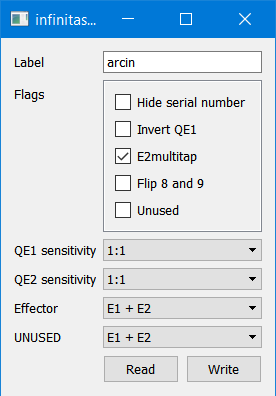
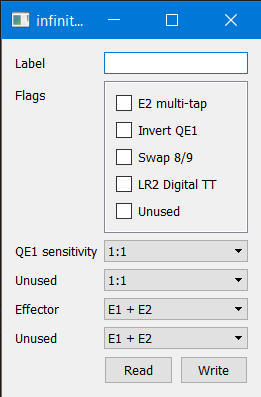
Enable debounce and digital turntable (#6)

diff --git a/arcin/main.cpp b/arcin/main.cpp
@@ -15,7 +15,7 @@
 // Pin out on arcin board
 //
 
-#define ARCIN_BUTTON_KEY_1           ((uint16_t)(1 << 0))
+#define ARCIN_BUTTON_KEY_1        ((uint16_t)(1 << 0))
 #define ARCIN_BUTTON_KEY_2        ((uint16_t)(1 << 1))
 #define ARCIN_BUTTON_KEY_3        ((uint16_t)(1 << 2))
 #define ARCIN_BUTTON_KEY_4        ((uint16_t)(1 << 3))
@@ -29,14 +29,14 @@
 #define ARCIN_BUTTON_EXTRA_9      ((uint16_t)(1 << 8))
 
 #define ARCIN_BUTTON_START        ((uint16_t)(1 << 9))  // button 10
-#define ARCIN_BUTTON_SEL             ((uint16_t)(1 << 10)) // button 11
+#define ARCIN_BUTTON_SEL          ((uint16_t)(1 << 10)) // button 11
 
 //
 // Remapped values for Windows
 //
 
-#define INFINITAS_DIGITAL_TT_CW   ((uint16_t)(1 << 12))  // button 13
-#define INFINITAS_DIGITAL_TT_CCW  ((uint16_t)(1 << 13))  // button 14
+#define JOY_BUTTON_13              ((uint16_t)(1 << 12))  // button 13
+#define JOY_BUTTON_14             ((uint16_t)(1 << 13))  // button 14
 
 #define INFINITAS_BUTTON_E1       ((uint16_t)(1 << 8))  // E1
 #define INFINITAS_BUTTON_E2       ((uint16_t)(1 << 9))  // E2
@@ -346,10 +346,6 @@ uint16_t remap_buttons(uint16_t buttons) {
     return remapped;
 }
 
-HID_arcin usb_hid(usb, report_desc_p);
-
-USB_strings usb_strings(usb, config.label);
-
 #define DEBOUNCE_TIME_MS 5
 
 uint16_t debounce_state = 0;
@@ -365,99 +361,90 @@ int debounce_index = 0;
  * We use update to sync to the USB polls; this helps avoid additional latency when
  * debounce samples just after the USB poll.
  */
-void debounce(uint16_t &buttons) {
-	if (Time::time() == debounce_sample_time) {
-		buttons = debounce_state;
-        return;
-	}
+uint16_t debounce(uint16_t buttons) {
+    if (Time::time() == debounce_sample_time) {
+        return debounce_state;
+    }
 
     debounce_sample_time = Time::time();
+    debounce_history[debounce_index] = buttons;
+    debounce_index = (debounce_index + 1) % DEBOUNCE_TIME_MS;
 
-	debounce_history[debounce_index] = buttons;
-	debounce_index = (debounce_index + 1) % DEBOUNCE_TIME_MS;
+    uint16_t has_ones = 0, has_zeroes = 0;
+    for (int i = 0; i < DEBOUNCE_TIME_MS; i++) {
+        has_ones |= debounce_history[i];
+        has_zeroes |= ~debounce_history[i];
+    }
 
-    uint16_t dbg = 0;
-
-	uint16_t has_ones = 0, has_zeroes = 0;
-	for (int i = 0; i < DEBOUNCE_TIME_MS; i++) {
-		has_ones |= debounce_history[i];
-		has_zeroes |= ~debounce_history[i];
-
-        dbg |= (debounce_history[i] & 1) ? (1 << i) : 0;
-	}
-
-	uint16_t stable = has_ones ^ has_zeroes;
-    dbg |= (stable & 1) ? (1 << 5) : 0;
-
-	debounce_state = (debounce_state & ~stable) | (has_ones & stable);
-    dbg |= (debounce_state & 1) ? (1 << 6) : 0;
-
-    dbg |= (buttons & 1) ? (1 << 10) : 0;
-
-	buttons = debounce_state;
-//    button_leds.set(dbg);
+    uint16_t stable = has_ones ^ has_zeroes;
+    debounce_state = (debounce_state & ~stable) | (has_ones & stable);
+    return debounce_state;
 }
 
 class analog_button {
-	public:
-		// config
+public:
+    // config
 
-		// Number of ticks we need to advance before recognizing an input
-		uint32_t deadzone;
-		// How long to sustain the input before clearing it (if opposite direction is input, we'll release immediately)
-		uint32_t sustain_ms;
-		// Always provide a zero-input for one poll before reversing?
-		bool clear;
+    // Number of ticks we need to advance before recognizing an input
+    uint32_t deadzone;
+    // How long to sustain the input before clearing it (if opposite direction is input, we'll release immediately)
+    uint32_t sustain_ms;
+    // Always provide a zero-input for one poll before reversing?
+    bool clear;
 
-		const volatile uint32_t &counter;
+    const volatile uint32_t &counter;
 
-		// State: Center of deadzone
-		uint32_t center;
-		// times to: reset to zero, reset center to counter
-		uint32_t t_timeout;
+    // State: Center of deadzone
+    uint32_t center;
+    // times to: reset to zero, reset center to counter
+    uint32_t t_timeout;
 
-		int8_t state; // -1, 0, 1
-		int8_t last_delta;
-	public:
-		analog_button(volatile uint32_t &counter, uint32_t deadzone, uint32_t sustain_ms, bool clear)
-			: deadzone(deadzone), sustain_ms(sustain_ms), clear(clear), counter(counter)
-		{
-			center = counter;
-			t_timeout = 0;
-			state = 0;
-		}
+    int8_t state; // -1, 0, 1
+    int8_t last_delta;
+public:
+    analog_button(volatile uint32_t &counter, uint32_t deadzone, uint32_t sustain_ms, bool clear)
+        : deadzone(deadzone), sustain_ms(sustain_ms), clear(clear), counter(counter)
+    {
+        center = counter;
+        t_timeout = 0;
+        state = 0;
+    }
 
-		int8_t poll() {
-			uint8_t observed = counter;
-			int8_t delta = observed - center;
-			last_delta = delta;
+    int8_t poll() {
+        uint8_t observed = counter;
+        int8_t delta = observed - center;
+        last_delta = delta;
 
-			uint8_t direction = 0;
-			if (delta >= (int32_t)deadzone) {
-				direction = 1;
-			} else if (delta <= -(int32_t)deadzone) {
-				direction = -1;
-			}
+        uint8_t direction = 0;
+        if (delta >= (int32_t)deadzone) {
+            direction = 1;
+        } else if (delta <= -(int32_t)deadzone) {
+            direction = -1;
+        }
 
-			if (direction != 0) {
-				center = observed;
-				t_timeout = Time::time() + sustain_ms;
-			} else if (t_timeout != 0 && Time::time() >= t_timeout) {
-				state = 0;
-				center = observed;
-				t_timeout = 0;
-			}
+        if (direction != 0) {
+            center = observed;
+            t_timeout = Time::time() + sustain_ms;
+        } else if (t_timeout != 0 && Time::time() >= t_timeout) {
+            state = 0;
+            center = observed;
+            t_timeout = 0;
+        }
 
-			if (direction == -state && clear) {
-				state = direction;
-				return 0;
-			} else if (direction != 0) {
-				state = direction;
-			}
+        if (direction == -state && clear) {
+            state = direction;
+            return 0;
+        } else if (direction != 0) {
+            state = direction;
+        }
 
-			return state;
-		}
+        return state;
+    }
 };
+
+HID_arcin usb_hid(usb, report_desc_p);
+
+USB_strings usb_strings(usb, config.label);
 
 int main() {
     rcc_init();
@@ -533,6 +520,8 @@ int main() {
     qe2a.set_mode(Pin::AF);
     qe2b.set_mode(Pin::AF);    
 
+    analog_button tt1(TIM2.CNT, 4, 100, true);
+
     while(1) {
         usb.process();
 
@@ -561,6 +550,33 @@ int main() {
             uint32_t qe1_count = TIM2.CNT;
             uint16_t remapped = remap_buttons(buttons);
 
+            // Digital turntable for LR2.
+            if (config.flags & ARCIN_CONFIG_FLAG_DIGITAL_TT_ENABLE) {
+                switch (tt1.poll()) {
+                case -1:
+                    remapped |= JOY_BUTTON_13;
+                    break;
+                case 1:
+                    remapped |= JOY_BUTTON_14;
+                    break;
+                default:
+                    break;
+                }
+            }
+
+            // Apply debounce...
+            uint16_t debounce_mask = 0;
+            // If multi-tap on E2 is enabled, debounce E2 beforehand
+            if (config.flags & ARCIN_CONFIG_FLAG_SEL_MULTI_TAP) {
+                debounce_mask |= INFINITAS_BUTTON_E2;
+            }
+
+            if (debounce_mask != 0) {
+                remapped = (remapped & ~debounce_mask) |
+                           (debounce(remapped) & debounce_mask);
+            }
+
+            // Multi-tap processing of E2. Must be done after debounce.
             if (config.flags & ARCIN_CONFIG_FLAG_SEL_MULTI_TAP) {
                 if (multitap_active_frames == 0) {
                     // Make a note of its current state
@@ -593,30 +609,7 @@ int main() {
                 }
             }
 
-            // digital turntable
-            if (config.flags & ARCIN_CONFIG_FLAG_DIGITAL_TT_ENABLE) {
-                int8_t rx = qe1_count - last_x;
-                if(rx > 1) {
-                    state_x = DIGITAL_TT_HOLD_DURATION_MS;
-                    last_x = qe1_count;
-                } else if(rx < -1) {
-                    state_x = -DIGITAL_TT_HOLD_DURATION_MS;
-                    last_x = qe1_count;
-                } else if(state_x > 0) {
-                    state_x--;
-                    last_x = qe1_count;
-                } else if(state_x < 0) {
-                    state_x++;
-                    last_x = qe1_count;
-                }
-
-                if(state_x > 0) {
-                    remapped |= INFINITAS_DIGITAL_TT_CCW;
-                } else if(state_x < 0) {
-                    remapped |= INFINITAS_DIGITAL_TT_CW;
-                }
-            }
-
+            // Finally - adjust turntable sensitivity before reporting it
             if(config.qe1_sens < 0) {
                 qe1_count /= -config.qe1_sens;
             } else if(config.qe1_sens > 0) {

diff --git a/arcin/config.h b/arcin/config.h
@@ -14,7 +14,7 @@ struct config_t {
 
 #define ARCIN_CONFIG_FLAG_SEL_MULTI_TAP        (1 << 0)
 #define ARCIN_CONFIG_FLAG_INVERT_QE1           (1 << 1)
-#define ARCIN_CONFIG_FLAG_SWAP_8_9                (1 << 2)
+#define ARCIN_CONFIG_FLAG_SWAP_8_9             (1 << 2)
 #define ARCIN_CONFIG_FLAG_DIGITAL_TT_ENABLE    (1 << 3)
 #define ARCIN_CONFIG_FLAG_RESERVED             (1 << 4)
 
